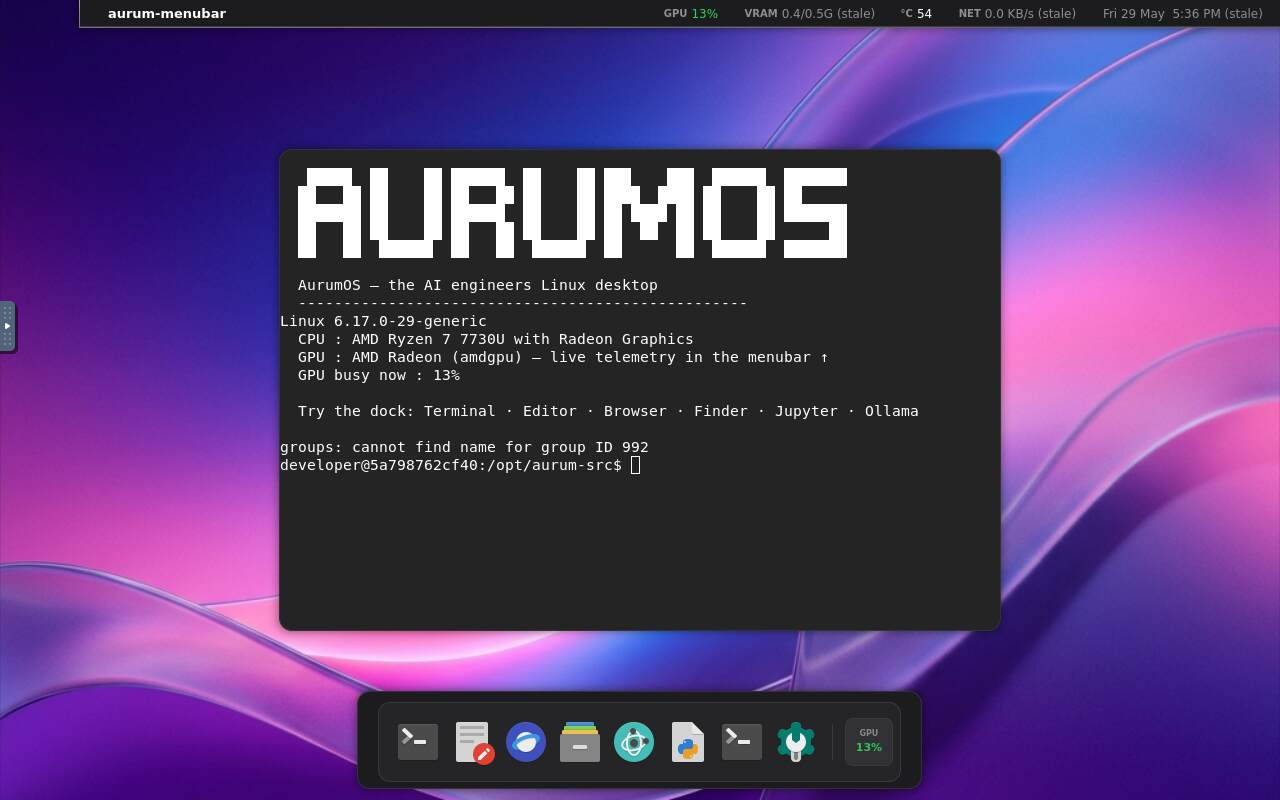
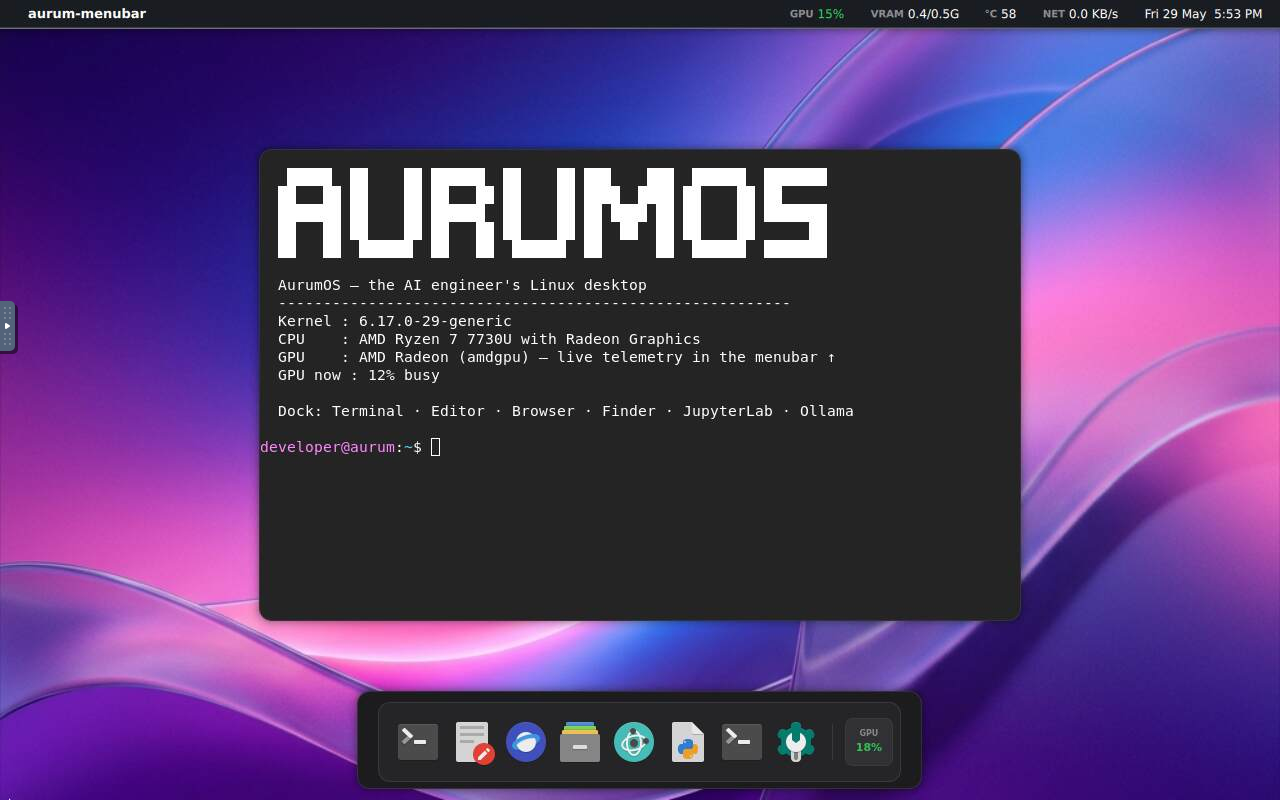
fix(menubar): base stale indicator on daemon heartbeat, not value change
The menubar marked an applet '(stale)' whenever its value didn't change for
30s. That mislabelled legitimately-constant readings — idle VRAM, a parked
network link, a steady temperature — as stale, which looked broken.

Stale now means the telemetry DAEMON stopped responding, full stop:
- main.cpp: SystemClient exposes a monotonic daemonHeartbeat, bumped only on
  a successful D-Bus poll (frozen when the daemon is unreachable).
- MenuBar.qml: a single root-level watcher flips daemonStale when the
  heartbeat stops advancing for 5s. Applets opt in with dependsOnDaemon
  (GPU/VRAM/temp); the clock and the /proc-based network applet never go
  stale via this path.

Also refresh the hero screenshot: clean readout, no false '(stale)'.

Changed region(s): [[0.1875, 0.1875, 0.8125, 0.8125], [0.0, 0.0, 1.0, 0.0625]]

diff --git a/desktop/menubar/MenuBar.qml b/desktop/menubar/MenuBar.qml
@@ -38,6 +38,34 @@ Window {
     color: "#FF1c1c1e"
     title: "aurum-menubar"
 
+    // Daemon liveness: true when the gpu-monitor daemon has stopped answering.
+    // Driven by watching gpuClient.daemonHeartbeat (a monotonic counter the C++
+    // client bumps on every successful poll). If it doesn't advance for
+    // `staleAfterMs`, the daemon is considered down and daemon-backed applets
+    // render "(stale)". A constant *value* (idle VRAM) does NOT trip this —
+    // only a frozen heartbeat does.
+    property bool daemonStale: false
+    property int  _lastHeartbeat: 0
+    readonly property int staleAfterMs: 5000
+
+    Timer {
+        id: heartbeatWatcher
+        interval: root.staleAfterMs
+        repeat: true
+        running: true
+        onTriggered: {
+            // If the heartbeat hasn't moved since the last check, the daemon
+            // is unresponsive. Otherwise it's alive — clear stale and latch
+            // the new value for the next interval.
+            if (gpuClient.daemonHeartbeat === root._lastHeartbeat) {
+                root.daemonStale = true
+            } else {
+                root.daemonStale = false
+                root._lastHeartbeat = gpuClient.daemonHeartbeat
+            }
+        }
+    }
+
     Rectangle {
         anchors.fill: parent
         color: "#FF1c1c1e"
@@ -85,6 +113,7 @@ Window {
 
             // --- Right section: live applets --------------------------------
             Applet {
+                dependsOnDaemon: true
                 label: gpuClient.utilLabel
                 value: gpuClient.gpuUtilization + "%"
                 tone: gpuClient.gpuUtilization >= 90 ? Theme.danger
@@ -94,6 +123,7 @@ Window {
             }
 
             Applet {
+                dependsOnDaemon: true
                 label: gpuClient.memLabel
                 value: gpuClient.vramUsedGb.toFixed(1) + "/" +
                        gpuClient.vramTotalGb.toFixed(1) + "G"
@@ -104,6 +134,7 @@ Window {
             }
 
             Applet {
+                dependsOnDaemon: true
                 label: "°C"
                 value: gpuClient.gpuTemp + ""
                 tone: gpuClient.gpuTemp >= 85 ? Theme.danger
@@ -132,35 +163,24 @@ Window {
     // hover-tooltip. Local to the menubar instead of an Aurum.Aqua singleton
     // because it's tightly coupled to the strip's rhythm.
     //
-    // Daemon-health "stale" indicator: if `value` hasn't changed in 30s we
-    // assume the backing daemon died and show the last value dimmed with a
-    // "(stale)" suffix. Restart of the timer on every value change is cheap
-    // (~1 µs per Qt timer reset) and totally avoids polling the daemon's
-    // liveness directly.
+    // Daemon-health "stale" indicator: an applet is stale only when the
+    // telemetry DAEMON has stopped responding — never because a value is
+    // legitimately constant (idle VRAM, a parked network link). Applets that
+    // read from the gpu-monitor daemon set `dependsOnDaemon: true`; the root's
+    // heartbeatWatcher flips `root.daemonStale` when gpuClient.daemonHeartbeat
+    // stops advancing. Host-local applets (clock, network read from
+    // /proc/net/dev) leave dependsOnDaemon=false and are never marked stale.
     component Applet: Item {
         id: applet
         property string label: ""
         property string value: ""
         property color  tone: Theme.textPrimary
         property string tooltip: ""
-        property string lastValue: ""
-        property bool   stale: false
+        property bool   dependsOnDaemon: false
+        readonly property bool stale: dependsOnDaemon && root.daemonStale
 
         implicitHeight: Theme.menubarHeight
         implicitWidth: row.implicitWidth + 10
-
-        Timer {
-            id: staleTimer
-            interval: 30000
-            repeat: false
-            onTriggered: applet.stale = true
-        }
-        onValueChanged: {
-            lastValue = value
-            stale = false
-            staleTimer.restart()
-        }
-        Component.onCompleted: staleTimer.start()
 
         Row {
             id: row

diff --git a/desktop/menubar/main.cpp b/desktop/menubar/main.cpp
@@ -39,6 +39,11 @@ class SystemClient : public QObject {
     Q_PROPERTY(QString utilLabel READ utilLabel NOTIFY changed)
     Q_PROPERTY(QString memLabel READ memLabel NOTIFY changed)
     Q_PROPERTY(QString netThroughput READ netThroughput NOTIFY changed)
+    // Monotonic counter bumped once per successful daemon poll. The QML reads
+    // it to detect a *dead daemon* (counter stops advancing) instead of
+    // mislabelling a legitimately-constant value (idle VRAM, parked network)
+    // as "stale".
+    Q_PROPERTY(int daemonHeartbeat READ daemonHeartbeat NOTIFY changed)
 
 public:
     explicit SystemClient(QObject* parent = nullptr) : QObject(parent) {
@@ -87,6 +92,9 @@ public:
     QString netThroughput() const {
         return m_net;
     }
+    int daemonHeartbeat() const {
+        return m_daemonHeartbeat;
+    }
 
 signals:
     void changed();
@@ -103,6 +111,8 @@ private slots:
 private:
     void pollGpu() {
         if (!m_iface->isValid()) {
+            // Daemon is unreachable: leave the heartbeat frozen so the QML can
+            // tell the readout is stale, and blank the values.
             m_name = "—";
             m_sourceKind = "none";
             m_util = 0;
@@ -111,30 +121,49 @@ private:
             m_total = 0;
             return;
         }
-        if (auto r = QDBusReply<QString>(m_iface->call("gpu_name")); r.isValid())
+        // Track whether at least one call this round actually reached the
+        // daemon. A live daemon → we bump m_daemonHeartbeat at the end, which
+        // is the QML's signal that telemetry is fresh (independent of whether
+        // any individual *value* changed — idle VRAM stays constant and that
+        // is NOT staleness).
+        bool reached = false;
+        if (auto r = QDBusReply<QString>(m_iface->call("gpu_name")); r.isValid()) {
             m_name = r.value();
-        else
+            reached = true;
+        } else {
             qWarning() << "[gpu-client] D-Bus call failed:" << r.error().message();
+        }
         // source_kind is newer than the rest of the interface; tolerate an
         // older daemon that doesn't implement it by keeping the previous value.
-        if (auto r = QDBusReply<QString>(m_iface->call("source_kind")); r.isValid())
+        if (auto r = QDBusReply<QString>(m_iface->call("source_kind")); r.isValid()) {
             m_sourceKind = r.value();
-        if (auto r = QDBusReply<uint>(m_iface->call("gpu_utilization")); r.isValid())
+            reached = true;
+        }
+        if (auto r = QDBusReply<uint>(m_iface->call("gpu_utilization")); r.isValid()) {
             m_util = static_cast<int>(r.value());
-        else
+            reached = true;
+        } else {
             qWarning() << "[gpu-client] D-Bus call failed:" << r.error().message();
-        if (auto r = QDBusReply<qulonglong>(m_iface->call("vram_used")); r.isValid())
+        }
+        if (auto r = QDBusReply<qulonglong>(m_iface->call("vram_used")); r.isValid()) {
             m_used = r.value();
-        else
+            reached = true;
+        } else {
             qWarning() << "[gpu-client] D-Bus call failed:" << r.error().message();
-        if (auto r = QDBusReply<qulonglong>(m_iface->call("vram_total")); r.isValid())
+        }
+        if (auto r = QDBusReply<qulonglong>(m_iface->call("vram_total")); r.isValid()) {
             m_total = r.value();
-        else
+            reached = true;
+        } else {
             qWarning() << "[gpu-client] D-Bus call failed:" << r.error().message();
-        if (auto r = QDBusReply<uint>(m_iface->call("temperature")); r.isValid())
+        }
+        if (auto r = QDBusReply<uint>(m_iface->call("temperature")); r.isValid()) {
             m_temp = static_cast<int>(r.value());
-        else
+            reached = true;
+        } else {
             qWarning() << "[gpu-client] D-Bus call failed:" << r.error().message();
+        }
+        if (reached) ++m_daemonHeartbeat;
     }
 
     void pollNet() {
@@ -186,6 +215,7 @@ private:
     QString m_name = "—";
     QString m_sourceKind = "none";
     QString m_net = "0.0 KB/s";
+    int m_daemonHeartbeat = 0;
     int m_util = 0;
     int m_temp = 0;
     qulonglong m_used = 0;
